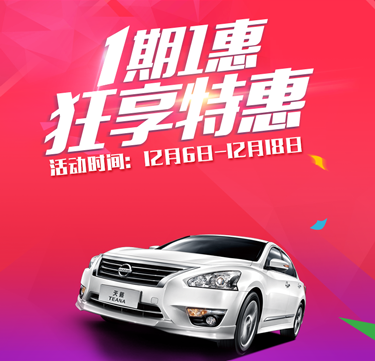
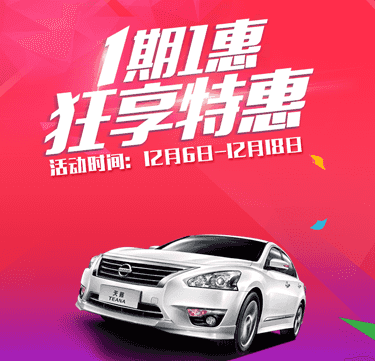
压缩图片修改导航链接

diff --git a/src/yydq/zc.html b/src/yydq/zc.html
@@ -43,11 +43,11 @@
 		<div class="t">活动车型 <span>ACTIVITY</span></div>
 		<ul class="c">
 			<li><a href="#f1">天籁</a></li>
-			<li><a href="#f2">新奇骏</a></li>
+			<li><a href="#f2">新阳光</a></li>
 			<li><a href="#f3">新轩逸</a></li>
-			<li><a href="#f4">逍客</a></li>
-			<li><a href="#f5">骊威</a></li>
-			<li><a href="#f6">骐达</a></li>
+			<li><a href="#f4">骐达</a></li>
+			<li><a href="#f5">逍客</a></li>
+			<li><a href="#f6">新奇骏</a></li>
 		</ul>
 	</div>
 	<div class="floor">

diff --git a/src/yydq/zc.js b/src/yydq/zc.js
@@ -262,7 +262,7 @@ $(function () {
 		}
 		}
 		//微信分享设置
-		if (isWx) { require('share')("一元夺券，买车更优惠！", CONFIG.CONTEXT_PATH + '/topic/yydq/img/share.png', '一元夺券', location.href.split('openId')[0]); }
+		if (isWx) { require('share')("一元夺券，买车更优惠！", CONFIG.CONTEXT_PATH + '/topic/yydq/img/banner.png', '一元夺券', location.href.split('openId')[0]); }
 
 });
 
